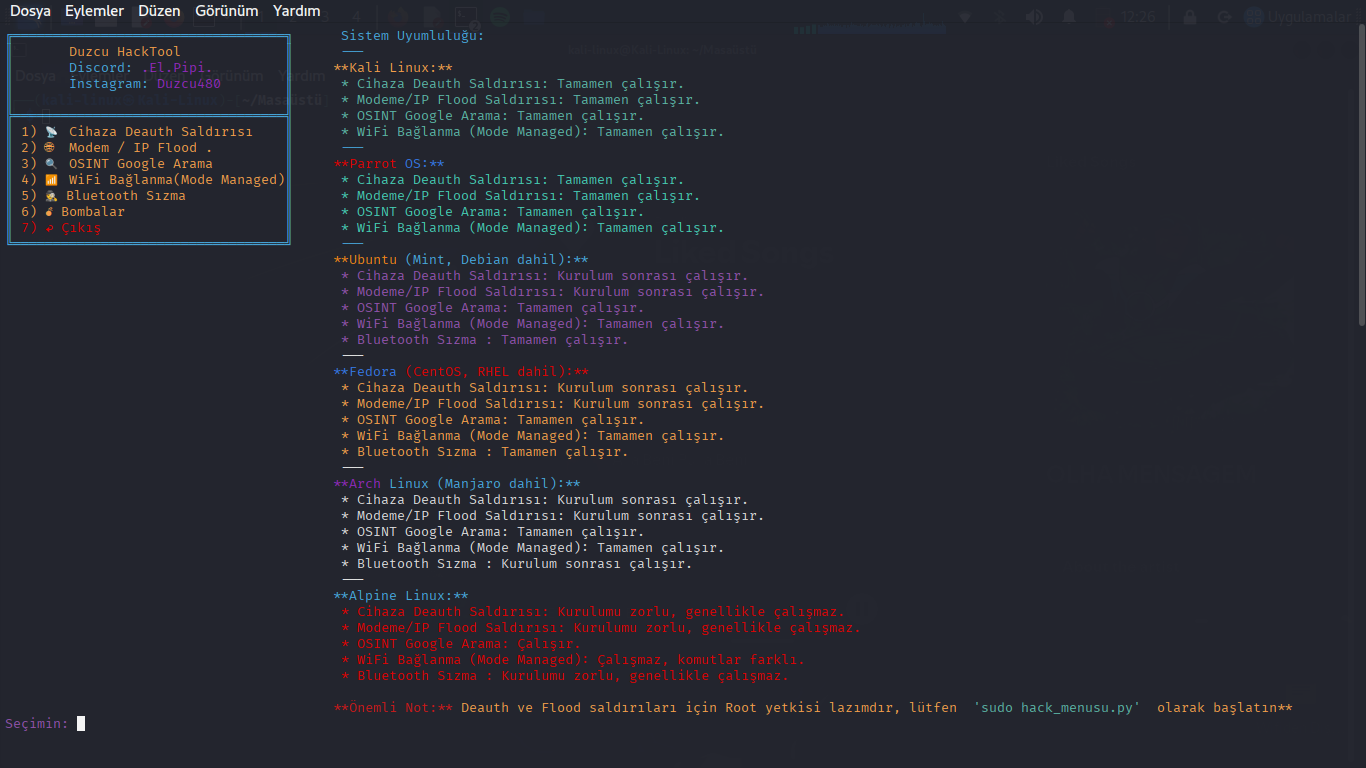
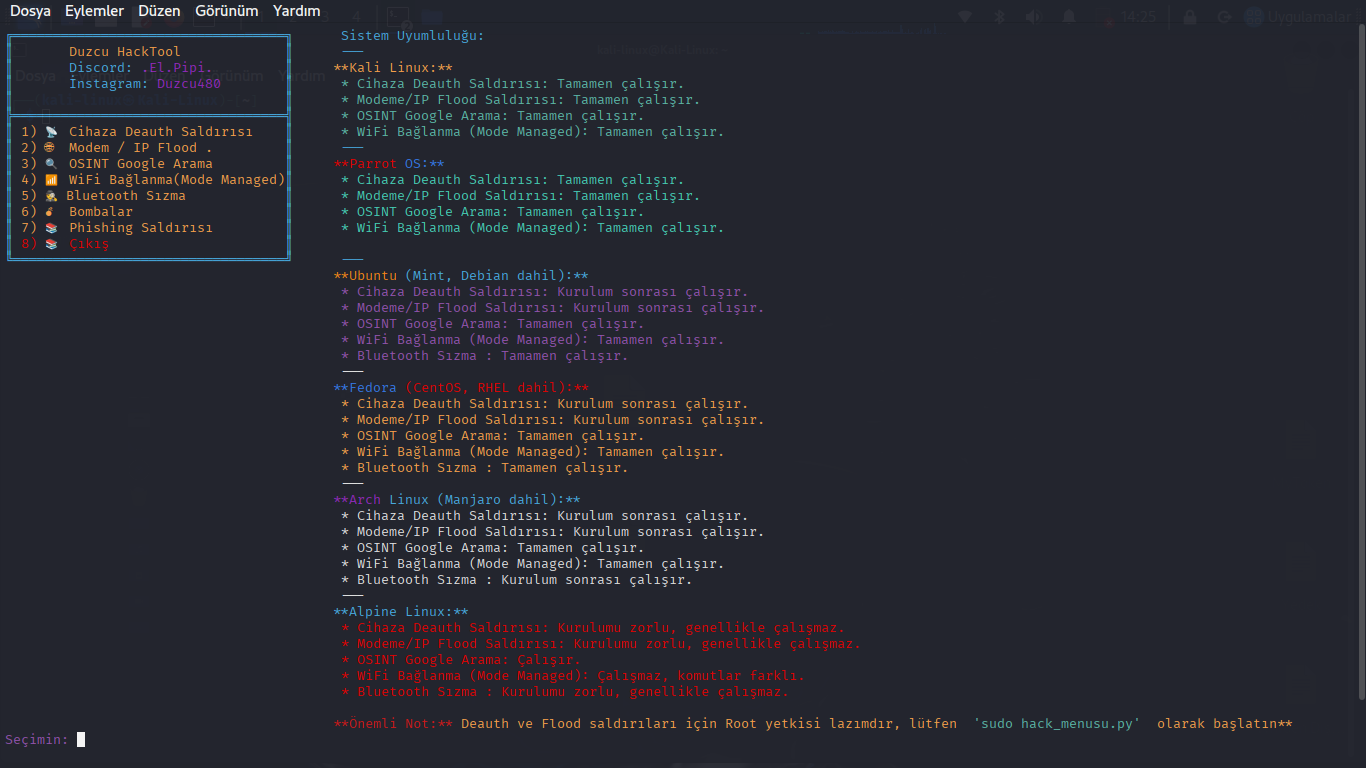
HacktoolTR projesinin ilk ve guncel yuklemesi

diff --git a/hack_menusu.py b/hack_menusu.py
@@ -443,6 +443,14 @@ def bluetooth_saldir():
                 break
         time.sleep(3)
         
+def phisher():
+
+    """
+    phisher.py scriptini çalıştırır
+    """
+    script_to_run = "phisher.py"
+    subprocess.call([sys.executable, script_to_run])     
+        
 def wbomb():
 
     """
@@ -491,8 +499,9 @@ def ana_menu():
         print(Fore.CYAN + "║ " + Fore.YELLOW + "3) 🔍 OSINT Google Arama" + Fore.CYAN + "         ║     " + Fore.LIGHTRED_EX + "**Parrot" + Fore.BLUE + " OS:**")
         print(Fore.CYAN + "║ " + Fore.YELLOW + "4) 📶 WiFi Bağlanma(Mode Managed)" + Fore.CYAN + "║     " + Fore.LIGHTGREEN_EX + " * Cihaza Deauth Saldırısı: Tamamen çalışır.")
         print(Fore.CYAN + "║ " + Fore.YELLOW + "5) 🕵 Bluetooth Sızma" + Fore.CYAN + "             ║     " + Fore.LIGHTGREEN_EX + " * Modeme/IP Flood Saldırısı: Tamamen çalışır.")
-        print(Fore.CYAN + "║ " + Fore.YELLOW + "6) 💣Bombalar                    " + Fore.CYAN + "║     " + Fore.LIGHTGREEN_EX + " * OSINT Google Arama: Tamamen çalışır.") # Yeni satır
-        print(Fore.CYAN + "║ " + Fore.LIGHTRED_EX + "7) ↩ Çıkış                       " + Fore.CYAN + "║     " + Fore.LIGHTGREEN_EX + " * WiFi Bağlanma (Mode Managed): Tamamen çalışır.")
+        print(Fore.CYAN + "║ " + Fore.YELLOW + "6) 💣 Bombalar                   " + Fore.CYAN + "║     " + Fore.LIGHTGREEN_EX + " * OSINT Google Arama: Tamamen çalışır.") # Yeni satır
+        print(Fore.CYAN + "║ " + Fore.YELLOW + "7) 📚 Phishing Saldırısı         " + Fore.CYAN + "║     " + Fore.LIGHTGREEN_EX + " * WiFi Bağlanma (Mode Managed): Tamamen çalışır.")
+        print(Fore.CYAN + "║ " + Fore.LIGHTRED_EX + "8) 📚 Çıkış                      " + Fore.CYAN + "║")
         print(Fore.CYAN + "╚══════════════════════════════════╝      ---")
         print("                                         " + Fore.LIGHTYELLOW_EX + "**Ubuntu" + Fore.CYAN + " (Mint, Debian dahil):**")
         print("                                         " + Fore.MAGENTA + " * Cihaza Deauth Saldırısı: Kurulum sonrası çalışır.")
@@ -524,7 +533,7 @@ def ana_menu():
         print("                                         ")
         print("                                         " + Fore.RED + "**Önemli Not:** " + Fore.YELLOW + "Deauth ve Flood saldırıları için Root yetkisi lazımdır, lütfen " + Fore.GREEN + " 'sudo hack_menusu.py' " + Fore.YELLOW + " olarak başlatın**")
 
-        secim = input_int(Fore.MAGENTA + "Seçimin: ", 1, 7)
+        secim = input_int(Fore.MAGENTA + "Seçimin: ", 1, 8)
         if secim == 1:
             deauth_menu()
         elif secim == 2:
@@ -538,6 +547,8 @@ def ana_menu():
         elif secim == 6:
             bmbmenu()
         elif secim == 7:
+            phisher()
+        elif secim == 8:
             print(Fore.WHITE + "Çıkış yapılıyor...")
             break
 
